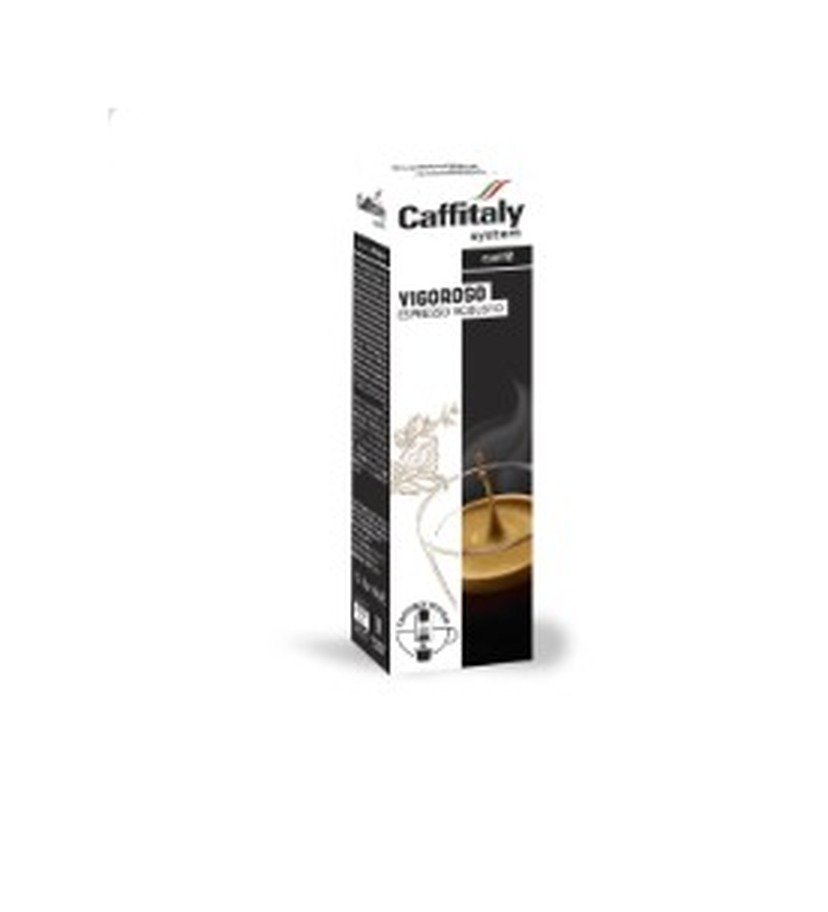
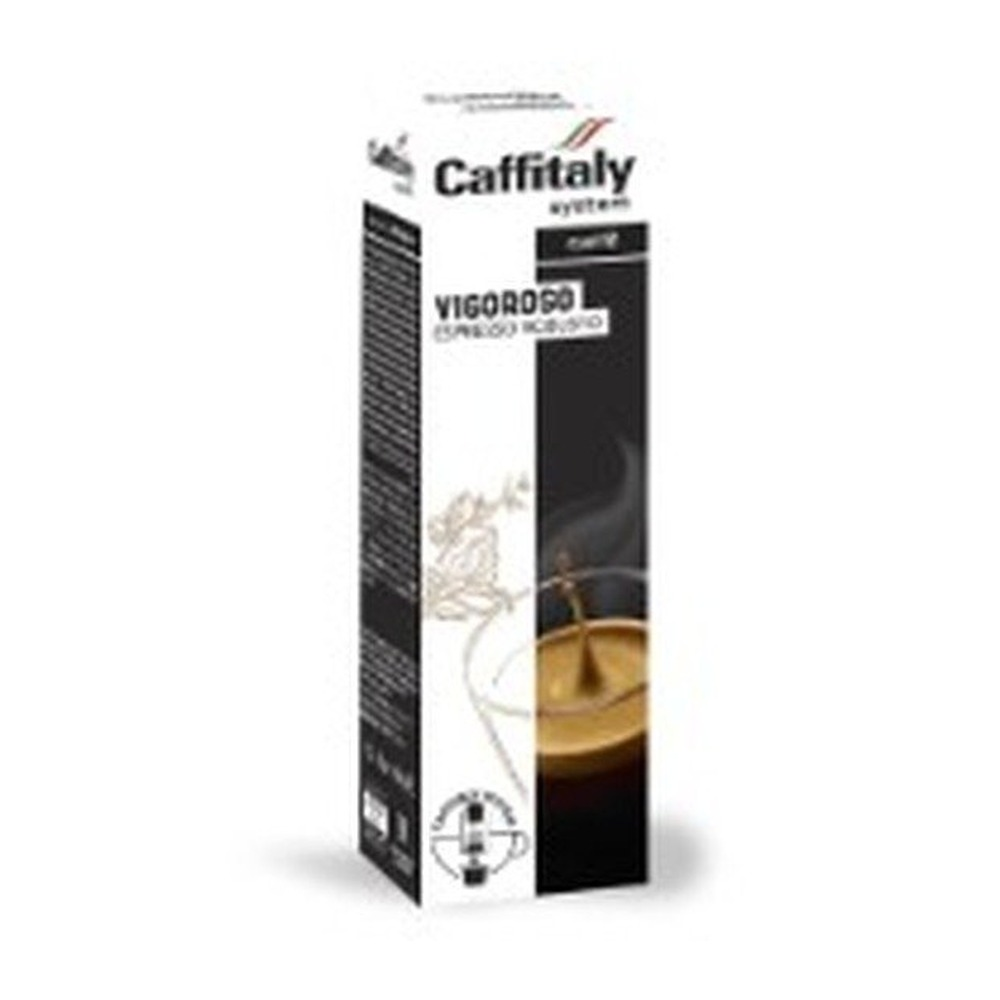
Enlarge small Caffitaly and Vivace capsule pack shots.

Changed region(s): [[0.3019, 0.0921, 0.7246, 0.9211]]

diff --git a/apps/core/management/commands/seed_store.py b/apps/core/management/commands/seed_store.py
@@ -281,6 +281,9 @@ class Command(BaseCommand):
             "french-coffee-hazelnut",
             "french-coffee-macadamia",
             "caffitaly-nocciola",
+            "caffitaly-intenso",
+            "caffitaly-vigoroso",
+            "compatible-vivace",
             "saudi-coffee-8-dallat",
             "saudi-coffee-4-dallat",
             "arabic-coffee-7-dalla",
